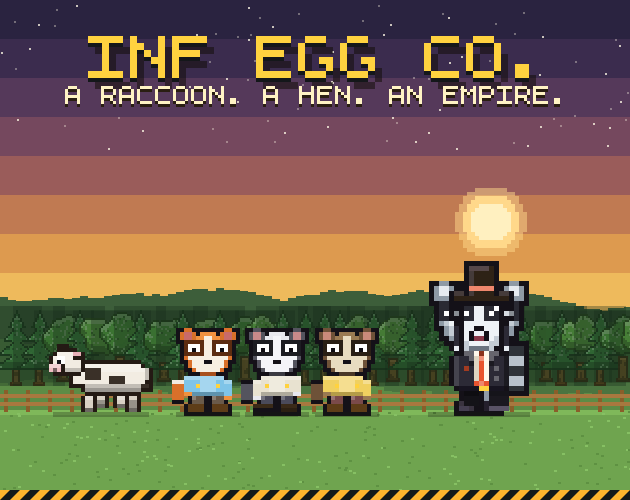
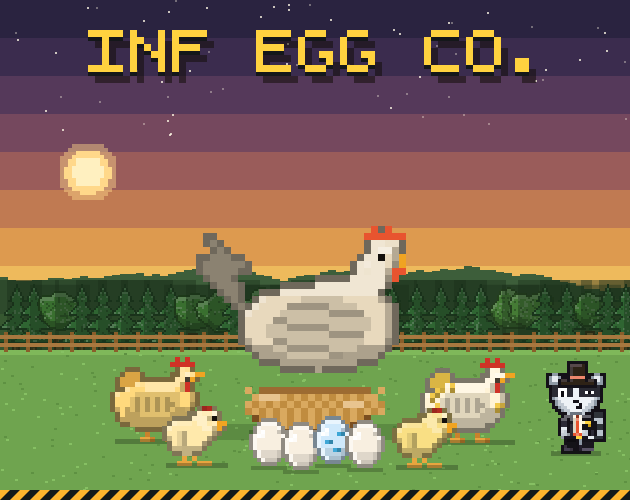
A cover about the hen, not the raccoon
The old one had the founder centre stage with the crew lined up
beside him and a tagline under the title. The hen is the subject
now: Mama Hen sat in her nest at 7x, filling the middle of the
frame, with a grown hen and a chick either side of her and four
eggs - one of them an AA - in a row at the front where nothing can
hide them. A pool of shade under the nest keeps a pale grey bird
off the pale grey hills, and the sun has moved to the far side so
it is not competing with her.

The founder is still in it, small, at the right-hand edge, in the
hat and the smug expression. His company, her farm.

The tagline is gone - the title carries it alone.

tools/press-cover.html is the generator, so the cover can be made
again from the game's own sprite engine rather than by hand.

Claude-Session: https://claude.ai/code/session_01Qu1ttjw31a17uj9cJXvLA6

diff --git a/tools/press-cover.html b/tools/press-cover.html
@@ -1,0 +1,107 @@
+<!doctype html><meta charset=utf-8><body style="margin:0;background:#111">
+<canvas id=cover width=630 height=500></canvas>
+<script src="js/data.js"></script><script src="js/sprites.js"></script>
+<script>
+(function paint(){
+  const W = 630, H = 500;
+  const g = document.getElementById('cover').getContext('2d');
+  g.imageSmoothingEnabled = false;
+  const rnd = SPR.mulberry(20260915);
+
+  /* --- sky: a dusk gradient, banded so it stays pixel art --- */
+  const BANDS = ['#2a2340','#3b2c4e','#55395a','#75485e','#9a5c5a','#c07a52','#dd9a4f','#eeba5c'];
+  const bh = Math.ceil(H * 0.60 / BANDS.length);
+  BANDS.forEach((col,i) => { g.fillStyle = col; g.fillRect(0, i*bh, W, bh+1); });
+  for (let i=0;i<70;i++){
+    const x = Math.floor(rnd()*W), y = Math.floor(rnd()*H*0.28);
+    g.fillStyle = rnd()<.5 ? 'rgba(255,250,230,.75)' : 'rgba(255,250,230,.35)';
+    g.fillRect(x,y,2,2);
+  }
+  /* a low sun, well off to the side so it does not fight the hen */
+  const sx = Math.round(W*0.14), sy = Math.round(H*0.34);
+  const disc = (r,col) => { g.fillStyle = col;
+    for (let dy=-r; dy<=r; dy+=4){ const half = Math.round(Math.sqrt(Math.max(0,r*r-dy*dy))/4)*4; g.fillRect(sx-half, sy+dy, half*2, 4); } };
+  disc(30,'rgba(255,216,138,.45)'); disc(23,'#ffd88a'); disc(16,'#fff0c0');
+
+  /* --- hills and a treeline behind --- */
+  const hill = (baseY,col,amp,seed) => { const r2 = SPR.mulberry(seed); g.fillStyle = col; let y = baseY;
+    for (let x=0;x<W;x+=8){ y += Math.round((r2()-0.5)*amp); y = Math.max(baseY-amp*3, Math.min(baseY+amp*2,y)); g.fillRect(x,y,8,H-y); } };
+  hill(Math.round(H*0.56), '#3d5e3a', 6, 7);
+  hill(Math.round(H*0.63), '#4a7440', 7, 19);
+  for (let x=-10; x<W+10; x += 16 + Math.floor(rnd()*10)) {
+    const t = SPR.decoSprite(rnd()<0.6?'pine':'tree', 2, Math.floor(rnd()*9999));
+    const y = Math.round(H*0.655) - t.height*0.6;
+    g.drawImage(t, x, y);
+    g.fillStyle = 'rgba(24,44,26,.40)'; g.fillRect(x, y, t.width, t.height);
+  }
+
+  /* --- the ground she sits on --- */
+  const gy = Math.round(H*0.70);
+  g.fillStyle = '#6fa44f'; g.fillRect(0,gy,W,H-gy);
+  g.fillStyle = '#7fb85a'; g.fillRect(0,gy,W,5);
+  for (let i=0;i<340;i++){ g.fillStyle = rnd()<.5 ? '#5e9142' : '#86c063';
+    g.fillRect(Math.floor(rnd()*W), gy+Math.floor(rnd()*(H-gy)), 3, 2); }
+  g.fillStyle = '#8a5e2a';
+  for (let x=4;x<W;x+=22) g.fillRect(x, gy-18, 4, 20);
+  g.fillStyle = '#a8783f'; g.fillRect(0,gy-15,W,4); g.fillRect(0,gy-7,W,4);
+
+  const shadow = (x,w,y) => { g.fillStyle = 'rgba(20,30,16,.30)'; g.fillRect(x, y, w, 5); };
+  const put = (spr, cx, feet) => { const x = Math.round(cx - spr.width/2), y = Math.round(feet - spr.height);
+    g.drawImage(spr, x, y); return [x,y]; };
+
+  /* --- SHE IS THE SUBJECT: Mama Hen on her nest, front and centre --- */
+  const MK = 7;
+  const nest = SPR.nestSprite(MK);
+  const mama = SPR.mamaSprite(0, MK, 'happy');
+  const feet = H - 64;
+  const nx = Math.round(W/2 - nest.width/2);
+  /* a pool of shade so a pale grey bird does not sink into pale grey hills */
+  g.fillStyle = 'rgba(20,40,16,.20)';
+  g.fillRect(nx - 30, feet - 12, nest.width + 60, 16);
+  shadow(nx + 4, nest.width - 8, feet - 6);
+  g.drawImage(nest, nx, feet - nest.height);
+  /* she sits IN it: her body bottom overlaps the rim, not the ground */
+  put(mama, W/2, feet - nest.height + MK * 3);
+
+  /* a grown hen either side of her, a step out and behind */
+  [[-1.42,0],[1.42,1]].forEach(([o,dy],i) => {
+    const h = SPR.chickenSprite(SPECIES[i?3:2], 5, false);
+    const p = put(h, W/2 + o*nest.width*0.78, feet + 6 + dy);
+    shadow(p[0]+5, h.width-10, feet + 3 + dy);
+  });
+  /* the front row, left to right: a chick, the eggs, a chick - so the
+     clutch reads as hers and nothing sits on top of anything else */
+  const fy = feet + 30;
+  [[-118,0],[112,2]].forEach(([dx,dy],i) => {
+    const c = SPR.chickSprite(SPECIES[i?1:0], 5);
+    const p = put(c, W/2 + dx, fy + dy);
+    shadow(p[0]+4, c.width-8, fy - 3 + dy);
+  });
+  [[-46,0],[-14,4],[18,-2],[50,2]].forEach(([dx,dy],i) => {
+    const e = SPR.eggSprite(i===2?2:0, 4);
+    const ex = Math.round(W/2 + dx - e.width/2);
+    g.fillStyle = 'rgba(20,30,16,.26)';
+    g.fillRect(ex + 2, fy + dy, e.width - 4, 4);
+    g.drawImage(e, ex, fy + dy - e.height);
+  });
+
+  /* --- the founder, small, at the edge: his company, her farm --- */
+  const boss = SPR.raccoonSprite('boss', 3, { hat:'hat_top' }, 'smug');
+  const bp = put(boss, W - 54, feet + 18);
+  shadow(bp[0]+8, boss.width-16, feet + 15);
+
+  /* --- the title, and nothing under it --- */
+  const title = 'INF EGG CO.';
+  const tk = 7, tw = SPR.textW(title, tk);
+  const tx = Math.round((W - tw)/2), ty = 34;
+  SPR.drawText(g, title, tx + tk, ty + tk, 'rgba(20,14,10,.55)', tk);
+  SPR.drawText(g, title, tx, ty, '#14171a', tk);
+  SPR.drawText(g, title, tx, ty - Math.round(tk*0.6), '#ffd23f', tk);
+
+  /* a hazard rule along the foot */
+  g.fillStyle = '#14171a'; g.fillRect(0,H-10,W,10);
+  for (let x=-10;x<W;x+=20){ g.fillStyle='#ffb32e'; g.beginPath();
+    g.moveTo(x,H); g.lineTo(x+10,H-10); g.lineTo(x+20,H-10); g.lineTo(x+10,H); g.closePath(); g.fill(); }
+  window.DONE = 1;
+})();
+</script>
